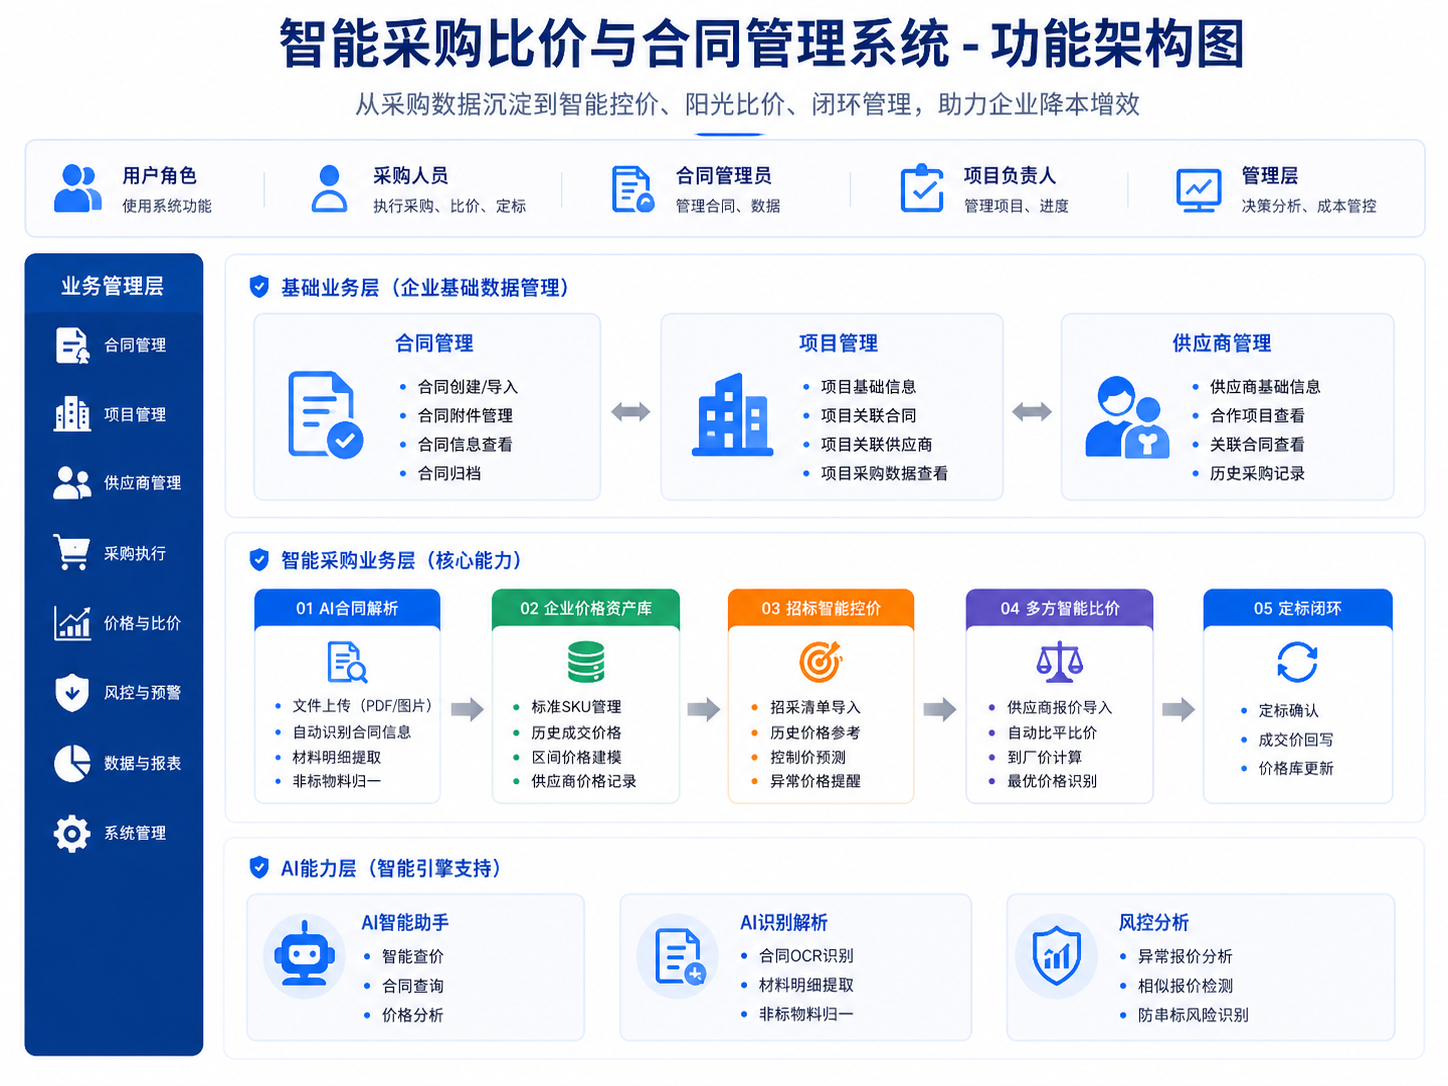
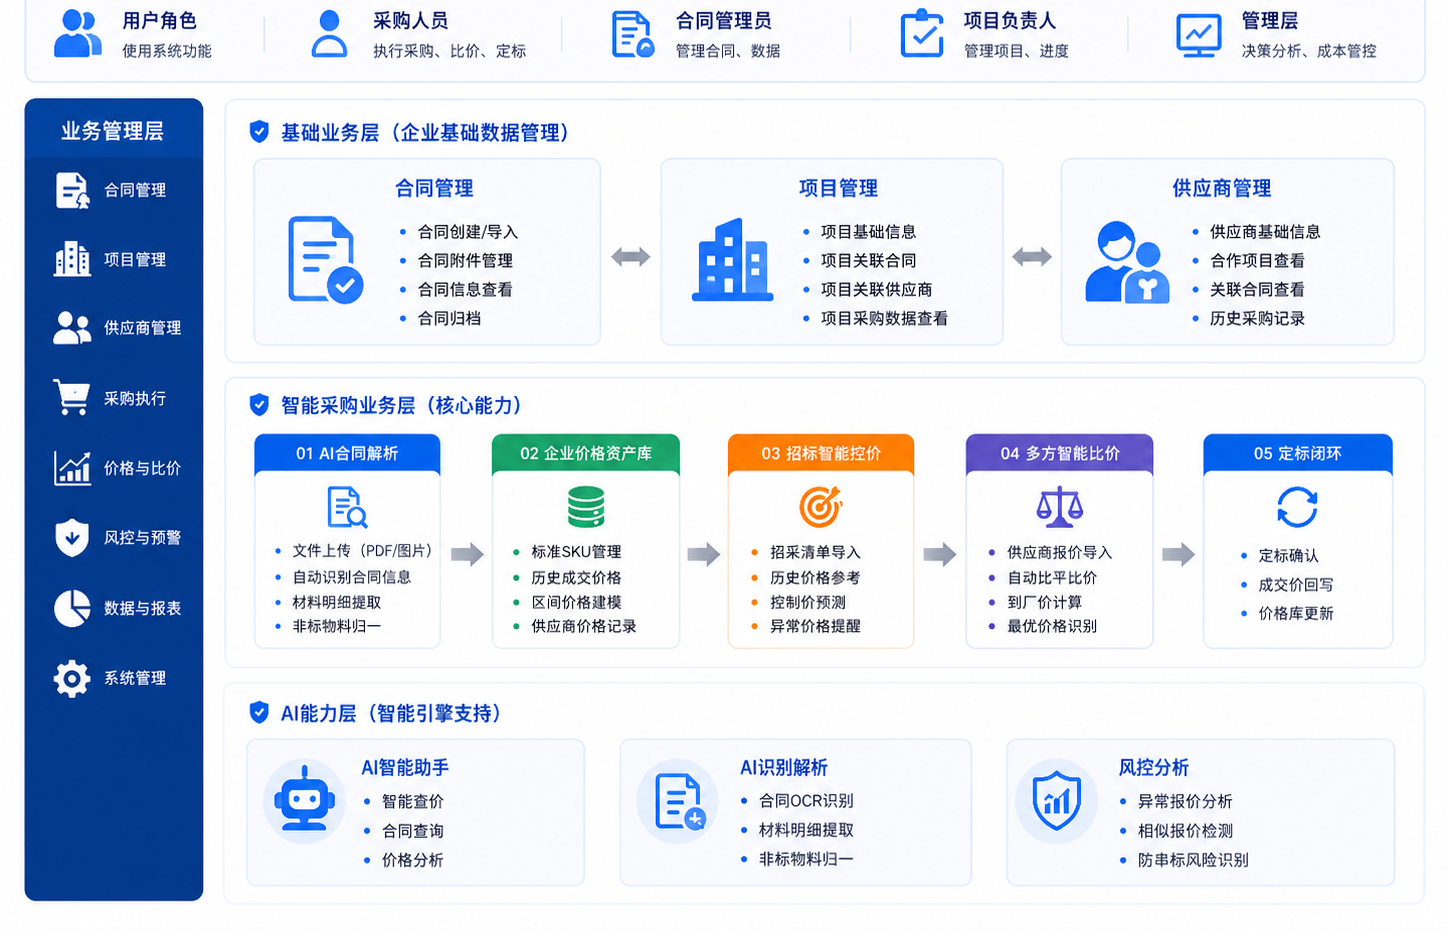
Crop top title bar from system architecture image and update section title to '智采云 · 系统架构图'

diff --git a/apps/website/index.html b/apps/website/index.html
@@ -1185,11 +1185,11 @@
     <div class="section-inner">
         <div class="section-header" style="text-align:center; max-width:760px; margin-left:auto; margin-right:auto;">
             <div class="section-eyebrow reveal" style="justify-content:center;">系统功能架构</div>
-            <h2 class="section-title reveal reveal-delay-1">智能采购比价与合同管理系统 - 功能架构图</h2>
+            <h2 class="section-title reveal reveal-delay-1">智采云 · 系统架构图</h2>
             <p class="section-desc reveal reveal-delay-2" style="max-width:100%;">从采购数据沉淀到智能控价、阳光比价、闭环管理，助力企业降本增效。</p>
         </div>
         <div class="arch-screenshot reveal reveal-delay-1" style="box-shadow: 0 10px 40px rgba(59,130,246,0.15); border: 1.5px solid rgba(59,130,246,0.3); border-radius: 18px; overflow: hidden; margin-bottom: 2rem;">
-            <img src="../../assets/system_screenshots/system_architecture.png" alt="智能采购比价与合同管理系统 - 功能架构图" style="width:100%; display:block;">
+            <img src="../../assets/system_screenshots/system_architecture.png" alt="智采云 · 系统架构图" style="width:100%; display:block;">
         </div>
         <div class="tech-grid">
             <div class="card tech-card reveal">
